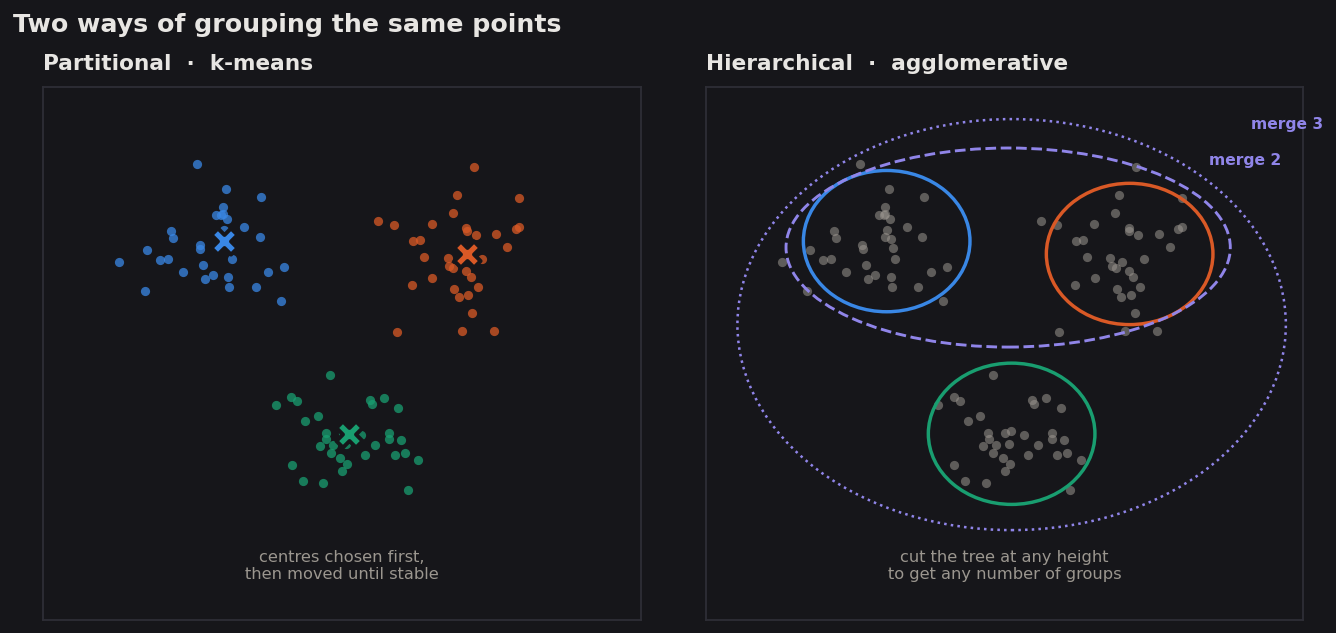
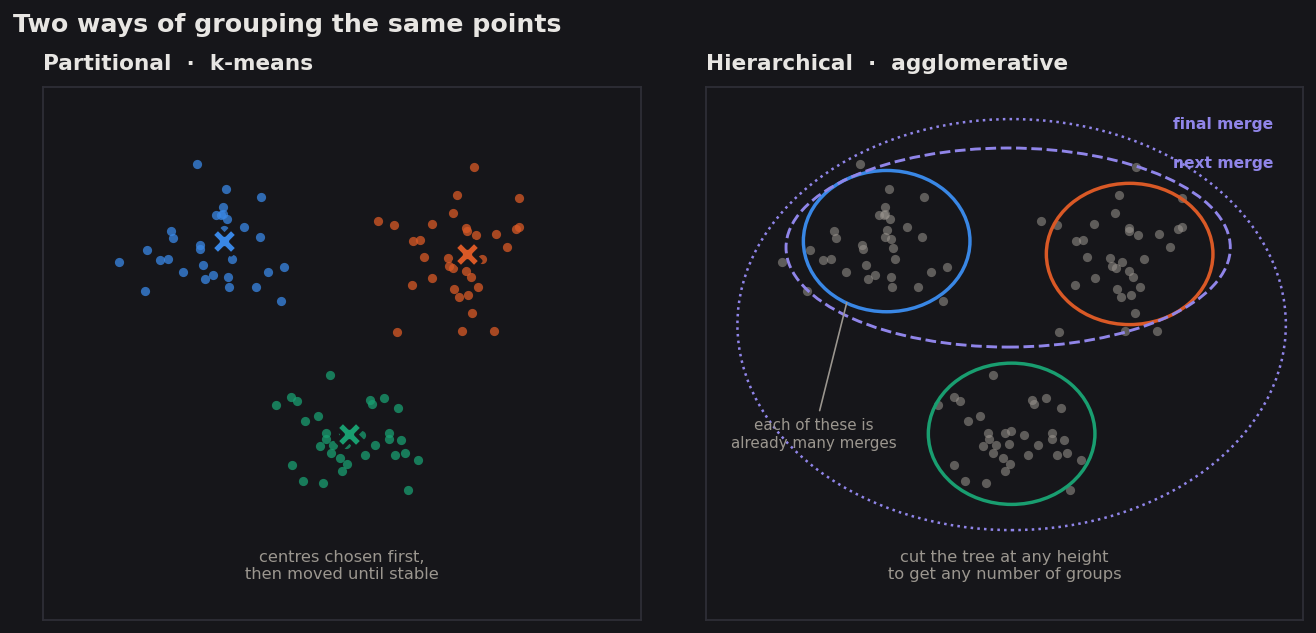
Fix two figure labelling issues
- fig20: the 'best k' callout overlapped the subtitle; moved below the peak
  and added headroom to the y-axis
- clustering diagram: labels read 'merge 2' and 'merge 3' with no merge 1,
  implying a step that is not drawn. The three circles are each the result
  of many merges, so the stages are now described rather than numbered.

Claude-Session: https://claude.ai/code/session_015hW5mXRyffbCt2nWwzxZ4Z

diff --git a/code/08_concept_diagrams.py b/code/08_concept_diagrams.py
@@ -74,10 +74,18 @@ def diagram_clustering_types():
                          edgecolor=theme.ACCENT, linewidth=1.6, linestyle="--"))
     a2.add_patch(Ellipse((0.1, 0.0), 7.9, 6.4, facecolor="none",
                          edgecolor=theme.ACCENT, linewidth=1.4, linestyle=":"))
-    a2.annotate("merge 2", xy=(2.95, 2.5), fontsize=8.6, color=theme.ACCENT,
-                fontweight="bold")
-    a2.annotate("merge 3", xy=(3.55, 3.05), fontsize=8.6, color=theme.ACCENT,
-                fontweight="bold")
+    # The three solid circles are each the product of many earlier merges, so
+    # numbering the outer two "2" and "3" implied a first merge that is not
+    # drawn. Describe the stages instead of numbering them.
+    a2.annotate("each of these is\nalready many merges", xy=(-2.25, 0.45),
+                xytext=(-2.75, -1.45), fontsize=8.4, color=theme.INK_SOFT,
+                ha="center", va="top",
+                arrowprops=dict(arrowstyle="-", color=theme.INK_SOFT,
+                                linewidth=0.9, shrinkA=2, shrinkB=4))
+    a2.annotate("next merge", xy=(3.15, 2.45), fontsize=8.6, color=theme.ACCENT,
+                fontweight="bold", ha="center")
+    a2.annotate("final merge", xy=(3.15, 3.05), fontsize=8.6, color=theme.ACCENT,
+                fontweight="bold", ha="center")
     a2.annotate("cut the tree at any height\nto get any number of groups",
                 xy=(0, -3.95), ha="center", fontsize=9, color=theme.INK_SOFT)
     frame(a2, "Hierarchical  ·  agglomerative")

diff --git a/code/06_clustering.py b/code/06_clustering.py
@@ -214,10 +214,13 @@ def main():
         ax.scatter([res.k[bi]], [res.silhouette[bi]], s=190, facecolor="none",
                    edgecolor=C[1], linewidth=2.2, zorder=5)
         ax.annotate(f"best: k = {best_k}\nsilhouette {res.silhouette[bi]:.3f}",
-                    xy=(res.k[bi], res.silhouette[bi]), xytext=(12, 10),
-                    textcoords="offset points", color=C[1], fontweight="bold",
-                    fontsize=9.6)
+                    xy=(res.k[bi], res.silhouette[bi]), xytext=(18, -6),
+                    textcoords="offset points", va="top", color=C[1],
+                    fontweight="bold", fontsize=9.6)
         ax.set_xticks(K_VALUES)
+        # headroom so the marker and its callout never reach the subtitle
+        lo, hi = res.silhouette.min(), res.silhouette.max()
+        ax.set_ylim(lo - (hi - lo) * 0.18, hi + (hi - lo) * 0.16)
         finish(ax, "The silhouette score peaks at a small number of clusters",
                f"Average silhouette width for k-means at each k, measured on "
                f"{len(sil_idx):,} sampled songs",
